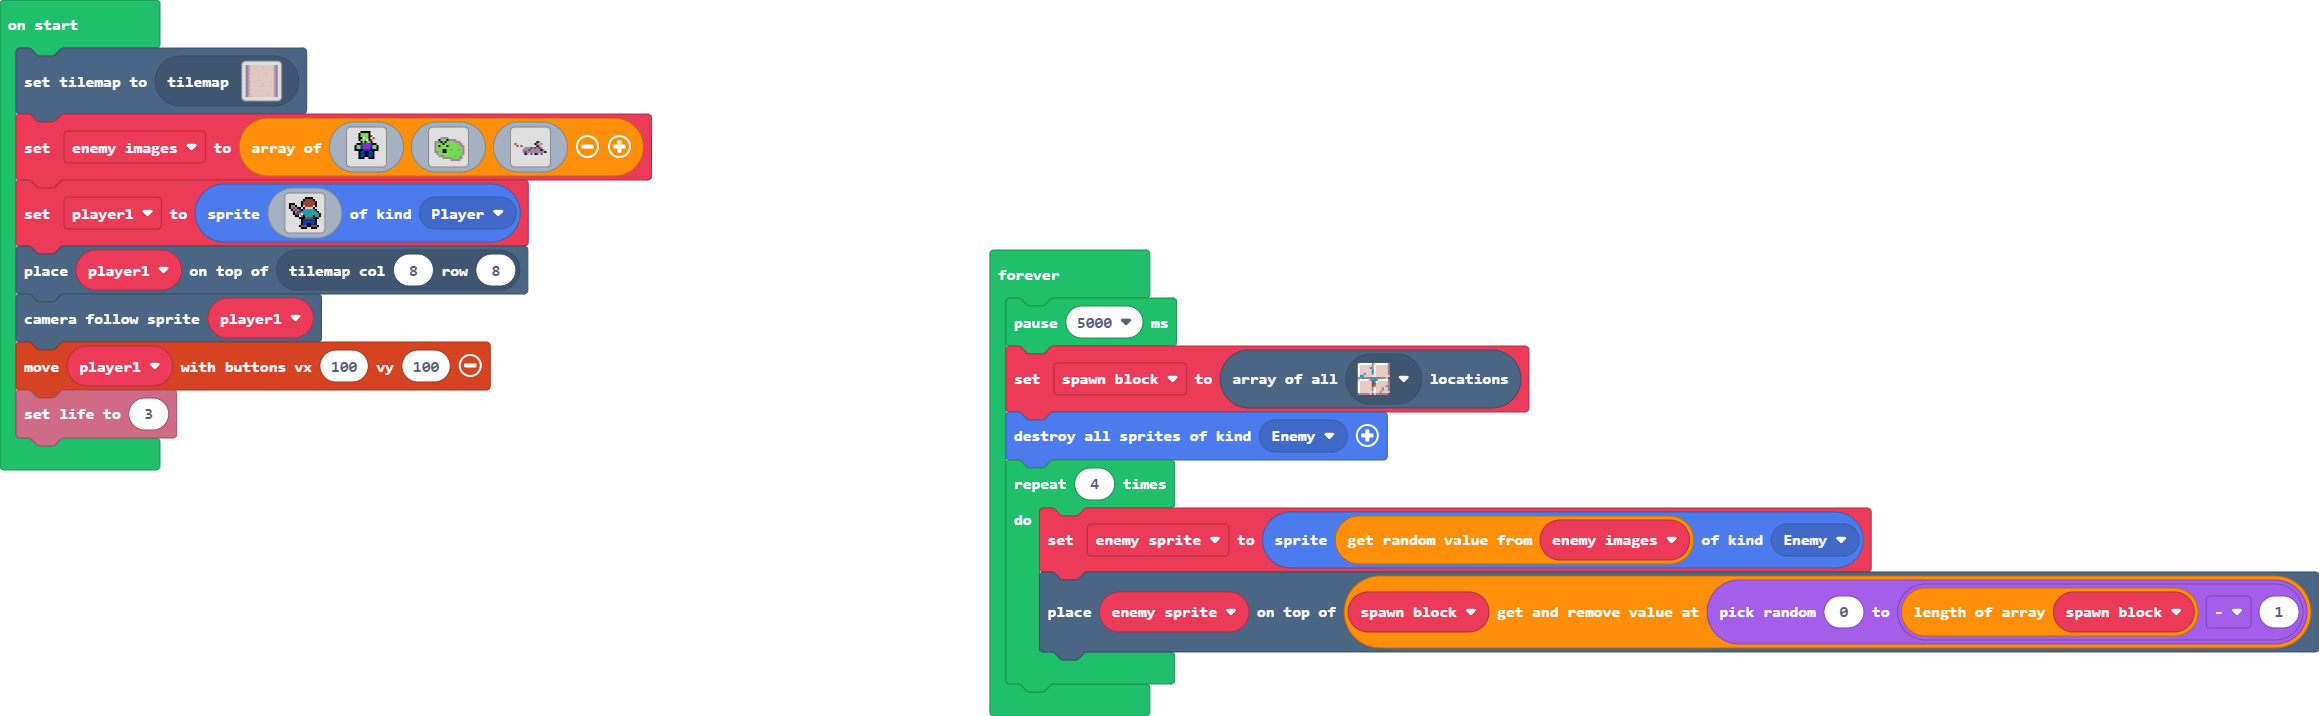
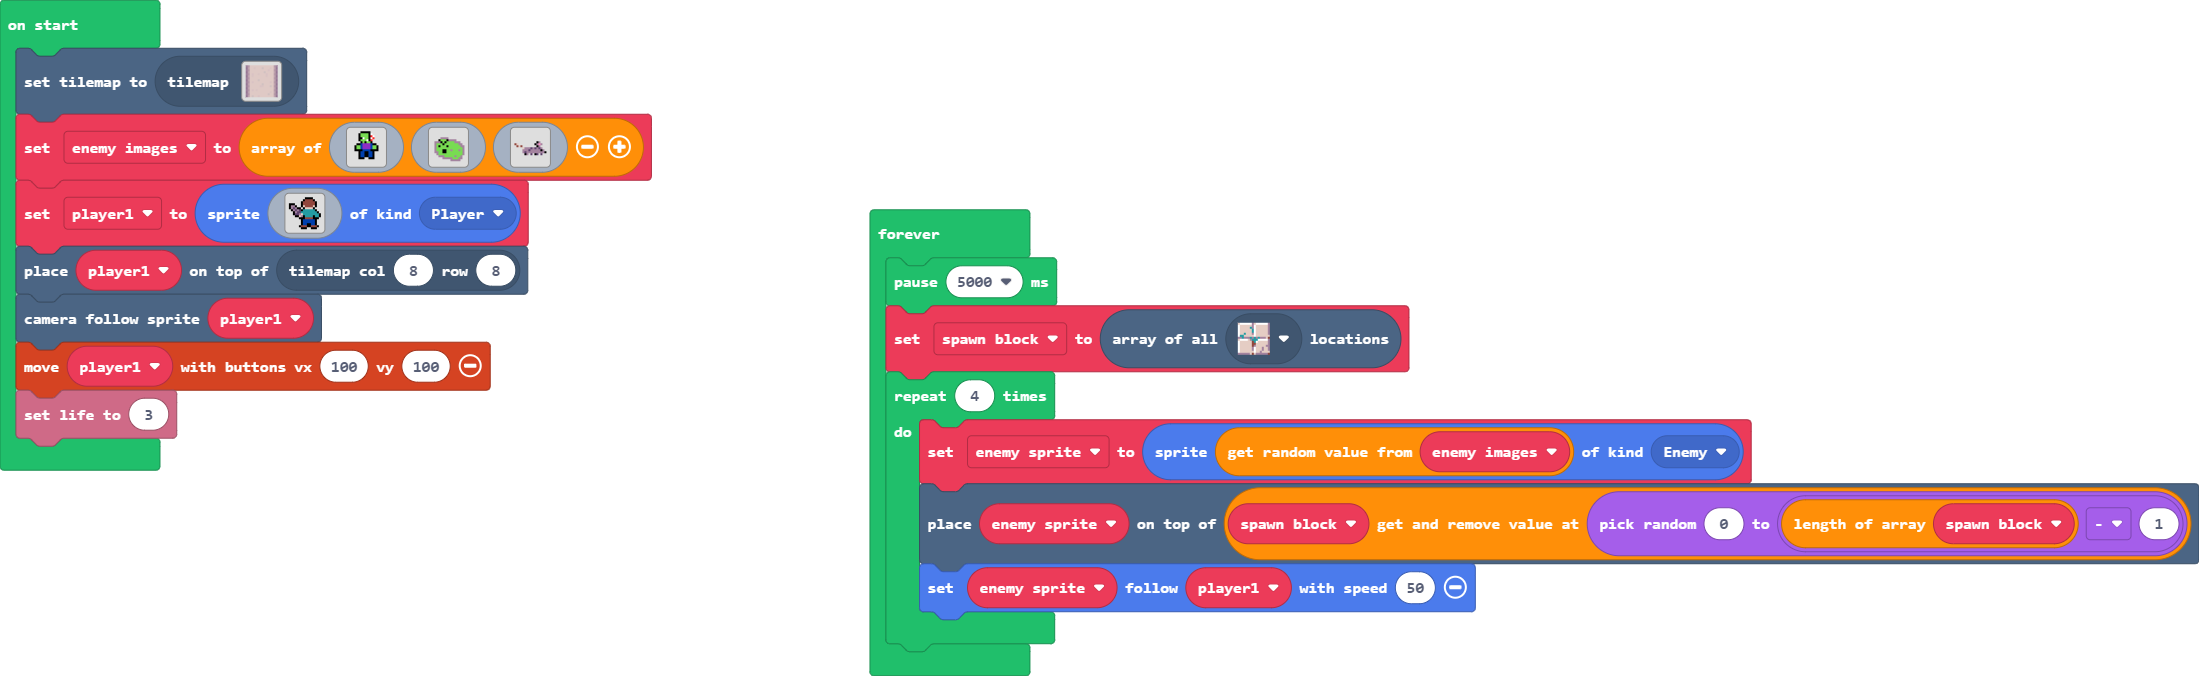
Update main.blocks, main.ts

Changed region(s): [[0.3711, 0.3107, 1.0, 1.0], [0.0, 0.0, 0.3092, 0.7145]]

diff --git a/main.ts b/main.ts
@@ -61,9 +61,9 @@ info.setLife(3)
 forever(function () {
     pause(5000)
     spawn_block = tiles.getTilesByType(assets.tile`myTile10`)
-    sprites.destroyAllSpritesOfKind(SpriteKind.Enemy)
     for (let index = 0; index < 4; index++) {
         enemy_sprite = sprites.create(enemy_images._pickRandom(), SpriteKind.Enemy)
         tiles.placeOnTile(enemy_sprite, spawn_block.removeAt(randint(0, spawn_block.length - 1)))
+        enemy_sprite.follow(player1, 50)
     }
 })
